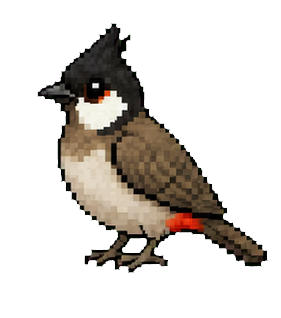
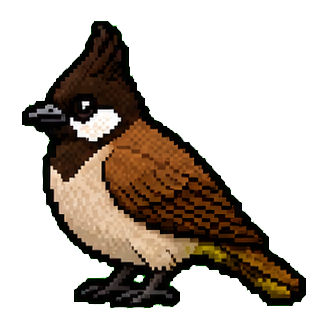
update_birds_info

diff --git a/frontend/src/utils/birdAssets.ts b/frontend/src/utils/birdAssets.ts
@@ -5,6 +5,7 @@ import gezi from '../assets/birds/鸽子.png';
 import huiLiangNiao from '../assets/birds/灰椋鸟.png';
 import huiXiQue from '../assets/birds/灰喜鹊.png';
 import maque from '../assets/birds/麻雀.png';
+import hongErBei from '../assets/birds/红耳鹎.png';
 import yeLu from '../assets/birds/夜鹭.png';
 import xique from '../assets/birds/喜鹊.png';
 import yanzi from '../assets/birds/燕子.png';
@@ -22,6 +23,7 @@ const birdAssetMap = new Map<string, string>([
   ['灰椋鸟', huiLiangNiao],
   ['灰喜鹊', huiXiQue],
   ['麻雀', maque],
+  ['红耳鹎', hongErBei],
   ['夜鹭', yeLu],
   ['喜鹊', xique],
   ['燕子', yanzi],